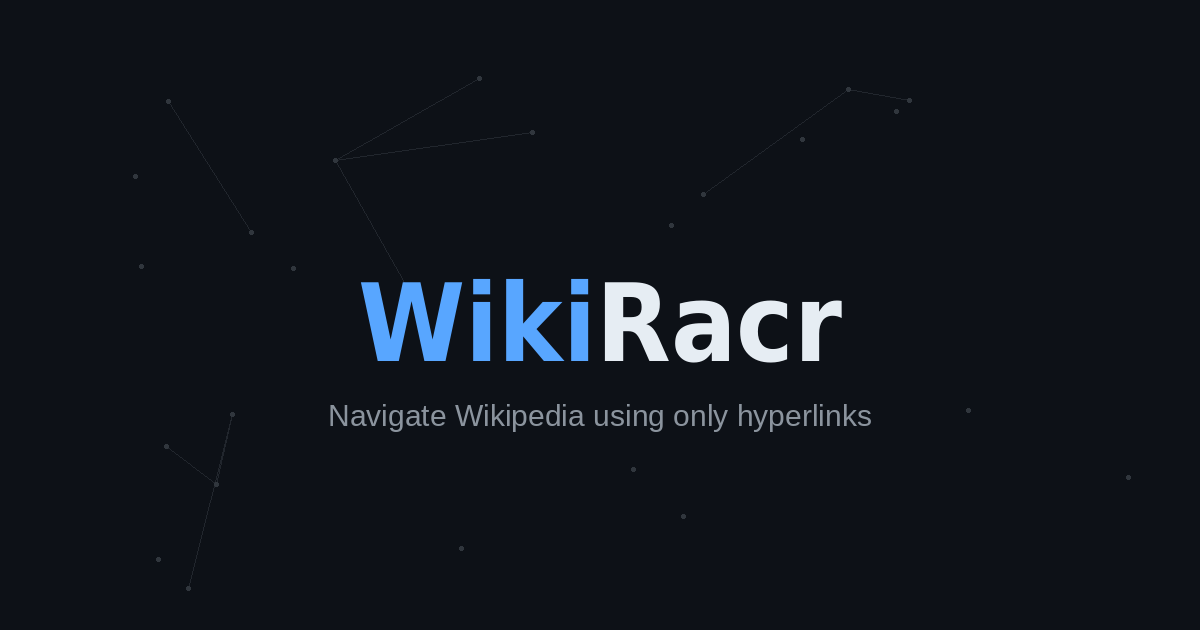
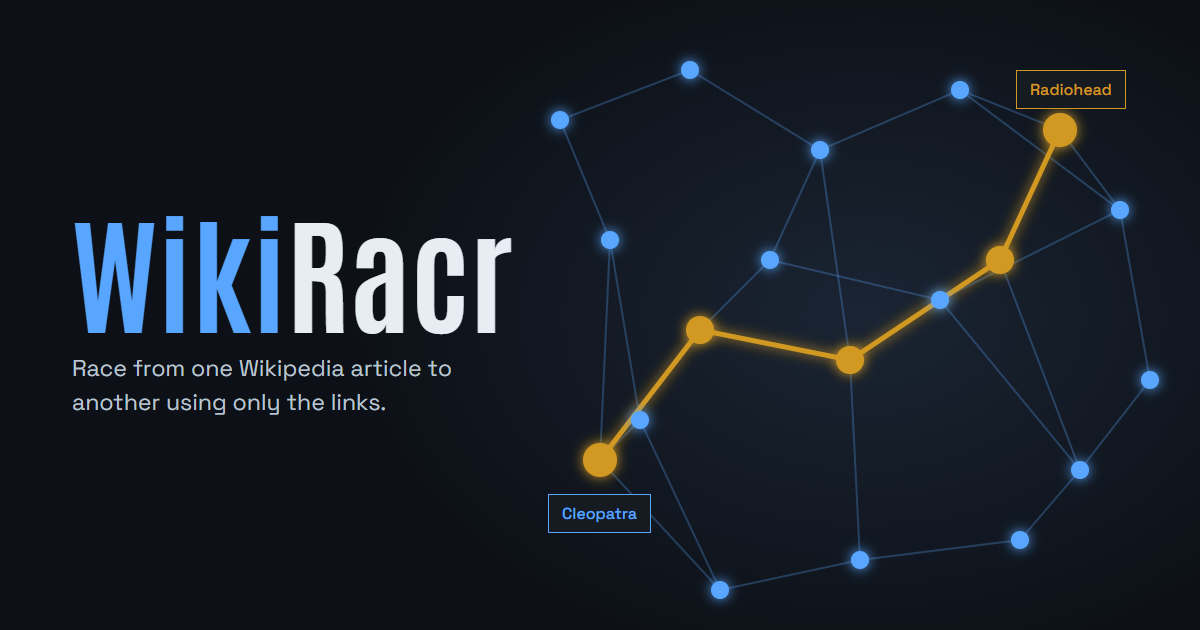
Replace the link preview image

diff --git a/client/index.html b/client/index.html
@@ -17,19 +17,19 @@
   <meta property="og:site_name" content="WikiRacr">
   <meta property="og:title" content="WikiRacr | Competitive Wikipedia Racing Game">
   <meta property="og:description" content="Play WikiRacr, a competitive Wikipedia racing game where you navigate from one article to another through Wikipedia links.">
-  <meta property="og:image" content="https://wikiracr.com/og-image.png">
+  <meta property="og:image" content="https://wikiracr.com/og-image.png?v=2">
   <meta property="og:url" content="https://wikiracr.com/">
 
   <meta name="twitter:card" content="summary_large_image">
   <meta name="twitter:title" content="WikiRacr | Competitive Wikipedia Racing Game">
   <meta name="twitter:description" content="Play WikiRacr, a competitive Wikipedia racing game where you navigate from one article to another through Wikipedia links.">
-  <meta name="twitter:image" content="https://wikiracr.com/og-image.png">
+  <meta name="twitter:image" content="https://wikiracr.com/og-image.png?v=2">
 
-  <script type="application/ld+json">{"@context":"https://schema.org","@type":"WebSite","name":"WikiRacr","alternateName":"WikiRacr","url":"https://wikiracr.com/","description":"A competitive Wikipedia racing game where players navigate from one article to another through Wikipedia links.","image":"https://wikiracr.com/og-image.png","logo":"https://wikiracr.com/logo.png"}</script>
+  <script type="application/ld+json">{"@context":"https://schema.org","@type":"WebSite","name":"WikiRacr","alternateName":"WikiRacr","url":"https://wikiracr.com/","description":"A competitive Wikipedia racing game where players navigate from one article to another through Wikipedia links.","image":"https://wikiracr.com/og-image.png?v=2","logo":"https://wikiracr.com/logo.png"}</script>
 
-  <script type="application/ld+json">{"@context":"https://schema.org","@type":"WebApplication","name":"WikiRacr","url":"https://wikiracr.com/","applicationCategory":"GameApplication","operatingSystem":"Web","description":"Play solo, race friends, take on the Daily Challenge, or compete in ranked Wikipedia races.","image":"https://wikiracr.com/og-image.png","logo":"https://wikiracr.com/logo.png"}</script>
+  <script type="application/ld+json">{"@context":"https://schema.org","@type":"WebApplication","name":"WikiRacr","url":"https://wikiracr.com/","applicationCategory":"GameApplication","operatingSystem":"Web","description":"Play solo, race friends, take on the Daily Challenge, or compete in ranked Wikipedia races.","image":"https://wikiracr.com/og-image.png?v=2","logo":"https://wikiracr.com/logo.png"}</script>
 
-  <script type="application/ld+json">{"@context":"https://schema.org","@type":"VideoGame","name":"WikiRacr","url":"https://wikiracr.com/","gamePlatform":"Web browser","genre":["Puzzle","Trivia","Racing"],"description":"A wiki racing game where players race through Wikipedia links from a start article to a goal article.","image":"https://wikiracr.com/og-image.png","logo":"https://wikiracr.com/logo.png"}</script>
+  <script type="application/ld+json">{"@context":"https://schema.org","@type":"VideoGame","name":"WikiRacr","url":"https://wikiracr.com/","gamePlatform":"Web browser","genre":["Puzzle","Trivia","Racing"],"description":"A wiki racing game where players race through Wikipedia links from a start article to a goal article.","image":"https://wikiracr.com/og-image.png?v=2","logo":"https://wikiracr.com/logo.png"}</script>
 
   <link rel="preconnect" href="https://fonts.googleapis.com">
   <link rel="preconnect" href="https://fonts.gstatic.com" crossorigin>
